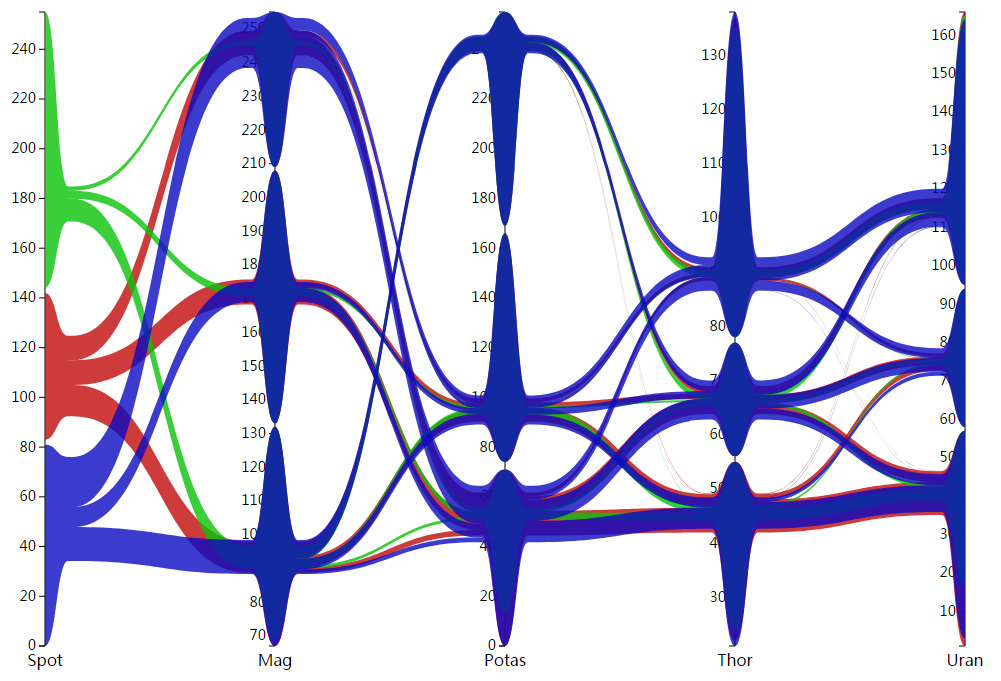
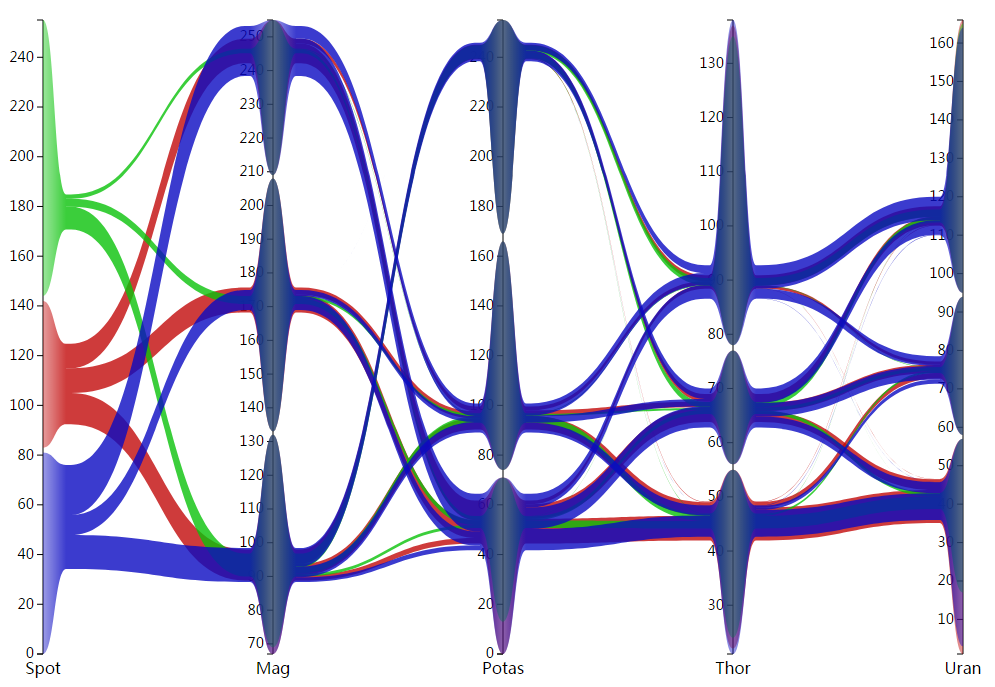
add files

Changed region(s): [[0.0, 0.0, 0.997, 0.9868]]

diff --git a/README.md b/README.md
@@ -10,3 +10,14 @@
 用不同的颜色属性进行独立渲染。为了增强视觉有效性表达，设计了交互以高亮显示不同的组。
 
 
+Orgin Result:
+
+![image](https://github.com/xswei/PC_Edge_Bundling/blob/master/pic/orgin.png)
+
+Edge-Bundling Result:
+
+![image](https://github.com/xswei/PC_Edge_Bundling/blob/master/pic/result.png)
+
+Interaction Result:
+
+![image](https://github.com/xswei/PC_Edge_Bundling/blob/master/pic/result2.png)
